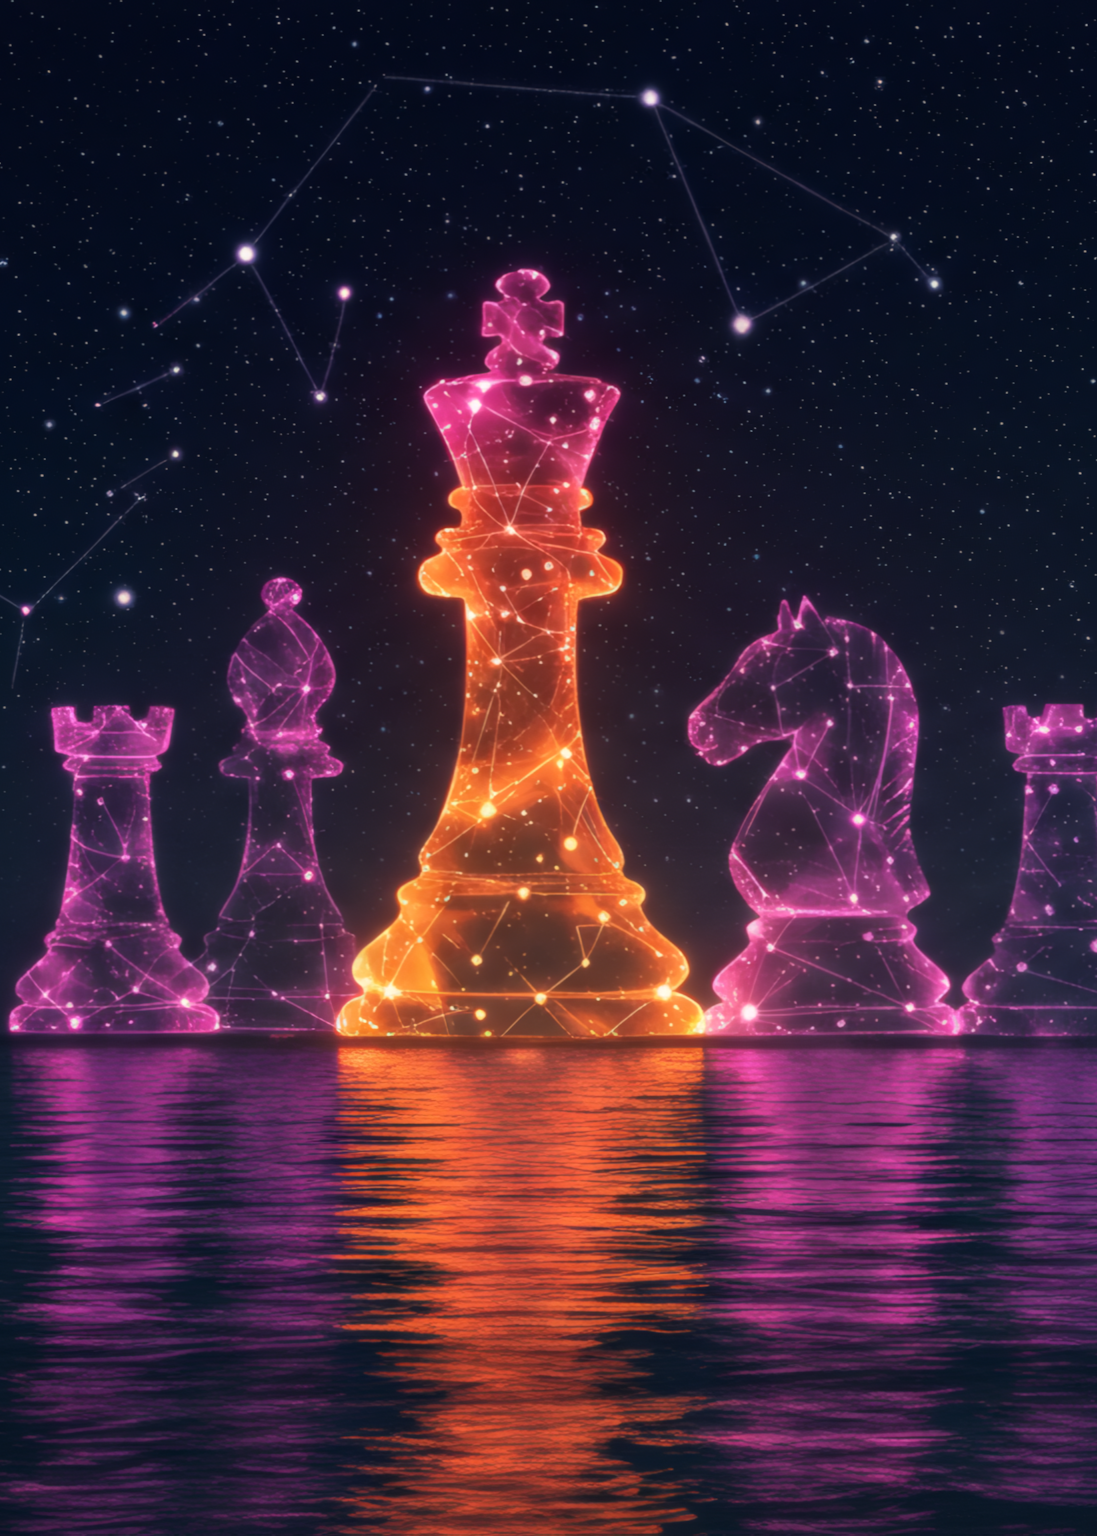
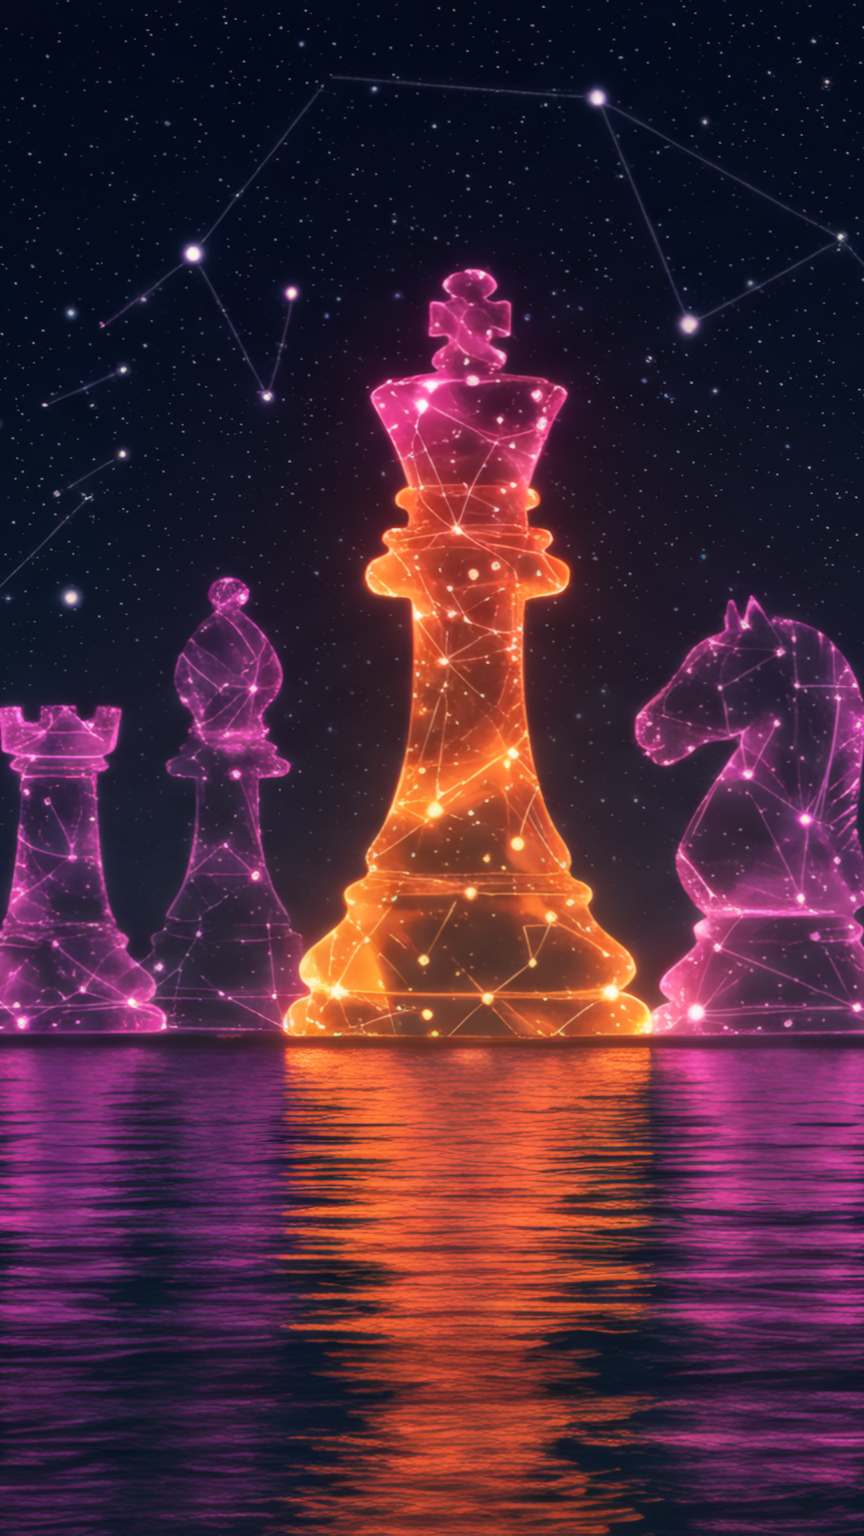
fix(hero): Ajusta altura de hero en móviles para cubrir viewport
Cuerpo:

- Se modificó la propiedad min-height de la sección .hero a 100vh
  en la media query para móviles (max-width: 768px).
- Este cambio asegura que la imagen de fondo (hero-vertical.png)
  o el color de fondo de respaldo cubran toda la altura visible
  de la pantalla, eliminando el espacio vacío inferior.

diff --git a/styles.css b/styles.css
@@ -1584,7 +1584,7 @@ footer {
       height: 38px; 
   }
   .logo-link .site-name-text {
-      font-size: 1.0rem; 
+      font-size: 1.15rem; 
       white-space: nowrap; 
       line-height: 1.15; 
       letter-spacing: normal; 
@@ -1621,45 +1621,53 @@ footer {
 
 
   /* AJUSTE MÓVIL HERO: Tablet */
-  .hero { 
-    justify-content: center; 
-    text-align: center; 
-    background-attachment: scroll; /* Cambiado para mejor rendimiento en móvil */
-    padding-top: calc(var(--header-height-desktop) + var(--spacing-md)); 
-    /* La imagen de fondo específica para móvil se definirá en la query de 768px */
+  /* ... (todos tus estilos anteriores) ... */
+
+@media (max-width: 768px) { /* Móviles */
+  /* ... (otros estilos móviles) ... */
+
+  /* AJUSTE MÓVIL HERO: Móviles pequeños */
+  .hero {
+    min-height: 100vh; /* CAMBIO: De 80vh a 100vh para ocupar toda la altura visible */
+    padding-top: calc(var(--header-height-mobile) + var(--spacing-md)); 
+    align-items: center; 
+    /* Imagen de fondo específica para móvil */
+    background-image: var(--hero-overlay-color), url('hero-vertical.png'); 
+    background-attachment: scroll; 
+    background-position: center center; /* Asegurar centrado */
+    background-size: cover; /* Asegurar que cubra */
+    background-repeat: no-repeat;
+    /* Opcional: Añadir un color de fondo de respaldo similar al de la imagen */
+    /* background-color: #tu-color-de-fondo-hero-vertical; */ 
   }
-  .hero .hero-content-container {
+  .hero .hero-content-container { 
       width: 90%; 
-      max-width: 600px; 
-      margin-left: auto; 
-      margin-right: auto; 
-      padding-left: 0; 
-      padding-right: 0; 
+      margin-left: auto;
+      margin-right: auto;
       text-align: center; 
-   }
-   .hero-cta { justify-content: center; } 
-
-
-  .about-content {
-    grid-template-columns: 1fr; 
+  }
+  .hero-content h1 { 
+    font-size: clamp(1.8rem, 6vw, 2.5rem); 
     text-align: center; 
-    padding: var(--spacing-md);
   }
-  .about-image {
-    margin-bottom: var(--spacing-lg); 
-    max-width: 350px; 
-    margin-left: auto; 
-    margin-right: auto; 
+  .hero-content p.lead { 
+    font-size: clamp(0.9rem, 3.5vw, 1rem); 
+    text-align: center; 
+    margin-left: auto;
+    margin-right: auto;
   }
-  .about-text h4 { text-align: center; }
-  .platforms-info { text-align: center; }
-  .platform-links {
-    display: inline-block;
-    text-align: left;
+  .hero-cta {
+    flex-direction: column; 
+    align-items: center; 
+    gap: var(--spacing-sm);
+    justify-content: center; 
   }
-  .about-quote {
-      text-align: center;
-  }
+
+  /* ... (resto de tus estilos móviles) ... */
+}
+
+/* ... (resto de tus estilos) ... */
+
 
 
   .contact-wrapper { 
